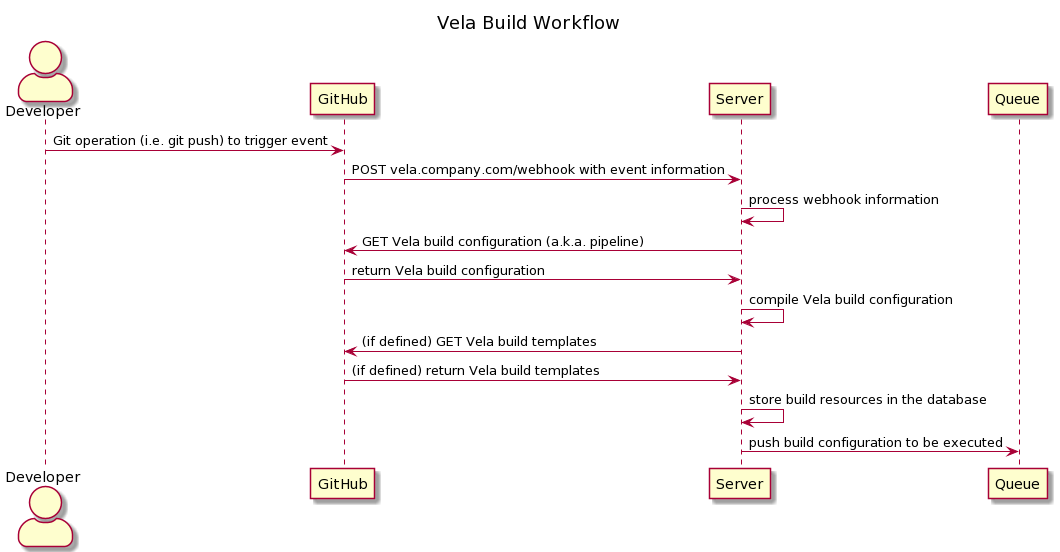
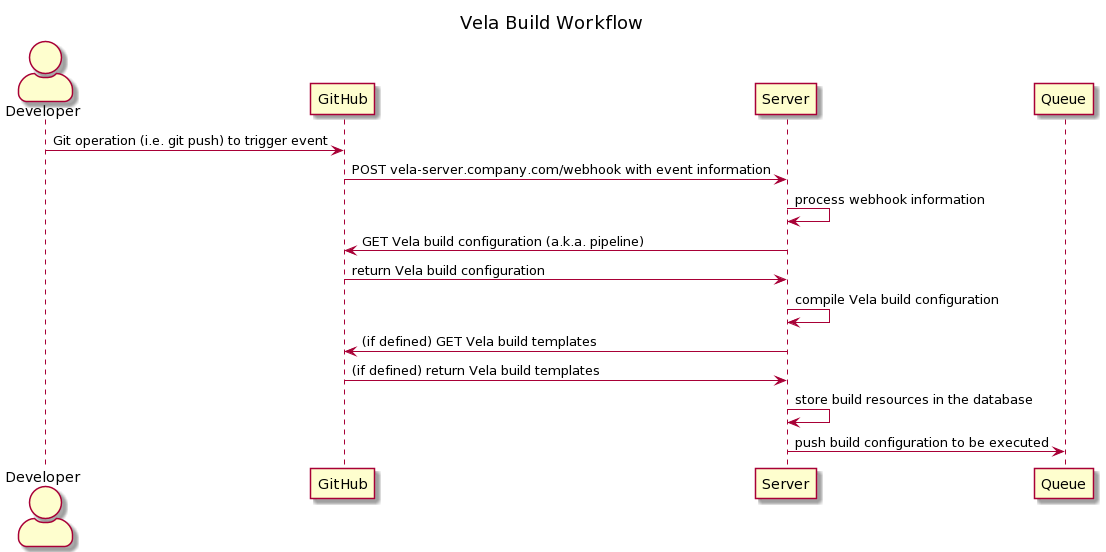
chore: address url feedback

diff --git a/content/administration/server/reference/scm.md b/content/administration/server/reference/scm.md
@@ -23,7 +23,7 @@ The following options are used to configure the component:
 | `scm.driver`       | type of client to control and operate SCM                       | `true`   | `github`                                                 | `SCM_DRIVER`<br>`VELA_SCM_DRIVER`             |
 | `scm.scopes`       | permission scopes to apply for the OAuth credentials on the SCM | `true`   | `[ repo, repo:status, user:email, read:user, read:org ]` | `SCM_SCOPES`<br>`VELA_SCM_SCOPES`             |
 | `scm.secret`       | client secret from the generated OAuth application on the SCM   | `true`   | `N/A`                                                    | `SCM_SECRET`<br>`VELA_SCM_SECRET`             |
-| `scm.webhook.addr` | url for webhooks on the SCM to send requests to                 | `false`  | the address of the Vela server                           | `SCM_WEBHOOK_ADDR`<br>`VELA_SCM_WEBHOOK_ADDR` |
+| `scm.webhook.addr` | url for webhooks on the SCM to send requests to                 | `false`  | the address of the Vela server (`$VELA_ADDR`)            | `SCM_WEBHOOK_ADDR`<br>`VELA_SCM_WEBHOOK_ADDR` |
 
 {{% alert title="Note:" color="primary" %}}
 For more information on these configuration options, please see the [server reference](/docs/administration/server/reference/).
@@ -48,7 +48,9 @@ The below configuration displays an example of creating a [GitHub OAuth applicat
 ![OAuth Application](/docs/administration/server/github_oauth.png)
 
 {{% alert title="Warning:" color="secondary" %}}
-The `Homepage URL` should match [the `VELA_ADDR` environment variable](/docs/administration/server/reference/#vela_addr) provided to the server.
+The `Homepage URL` should match [the `VELA_ADDR` environment variable](/docs/administration/server/reference/#vela_addr) provided to the server for clusters without a UI.
+
+Otherwise, the `Homepage URL` should match [the `VELA_WEBUI_ADDR` environment variable](/docs/administration/server/reference/#vela_webui_addr) provided to the server.
 
 The `Authorization callback URL` should contain [the `VELA_ADDR` environment variable](/docs/administration/server/reference/#vela_addr) with a `/authenticate` suffix.
 {{% /alert %}}
@@ -64,7 +66,9 @@ The below configuration displays an example of creating a [GitHub Enterprise Ser
 ![OAuth Application](/docs/administration/server/github_enterprise_oauth.png)
 
 {{% alert title="Warning:" color="secondary" %}}
-The `Homepage URL` should match [the `VELA_ADDR` environment variable](/docs/administration/server/reference/#vela_addr) provided to the server.
+The `Homepage URL` should match [the `VELA_ADDR` environment variable](/docs/administration/server/reference/#vela_addr) provided to the server for clusters without a UI.
+
+Otherwise, the `Homepage URL` should match [the `VELA_WEBUI_ADDR` environment variable](/docs/administration/server/reference/#vela_webui_addr) provided to the server.
 
 The `Authorization callback URL` should contain [the `VELA_ADDR` environment variable](/docs/administration/server/reference/#vela_addr) with a `/authenticate` suffix.
 {{% /alert %}}

diff --git a/content/administration/server/reference/database.md b/content/administration/server/reference/database.md
@@ -54,7 +54,7 @@ The below configuration displays an example of starting the Vela server that wil
 ```diff
 $ docker run \
   --detach=true \
-  --env=VELA_ADDR=https://vela.company.com \
+  --env=VELA_ADDR=https://vela-server.company.com \
 + --env=VELA_DATABASE_DRIVER=postgres \
 + --env=VELA_DATABASE_ADDR=postgres://<username>:<password>@<hostname>:<port>/<database> \
   --env=VELA_DATABASE_ENCRYPTION_KEY=<encryption-key> \
@@ -64,6 +64,7 @@ $ docker run \
   --env=VELA_SECRET=<shared-secret> \
   --env=VELA_SCM_CLIENT=<oauth-client-id> \
   --env=VELA_SCM_SECRET=<oauth-client-secret> \
+  --env=VELA_WEBUI_ADDR=https://vela.company.com \
   --name=server \
   --publish=80:80 \
   --publish=443:443 \
@@ -82,7 +83,7 @@ The below configuration displays an example of starting the Vela server that wil
 ```diff
 $ docker run \
   --detach=true \
-  --env=VELA_ADDR=https://vela.company.com \
+  --env=VELA_ADDR=https://vela-server.company.com \
 + --env=VELA_DATABASE_DRIVER=sqlite3 \
 + --env=VELA_DATABASE_ADDR=vela.sqlite \
   --env=VELA_DATABASE_ENCRYPTION_KEY=<encryption-key> \
@@ -92,6 +93,7 @@ $ docker run \
   --env=VELA_SECRET=<shared-secret> \
   --env=VELA_SCM_CLIENT=<oauth-client-id> \
   --env=VELA_SCM_SECRET=<oauth-client-secret> \
+  --env=VELA_WEBUI_ADDR=https://vela.company.com \
   --name=server \
   --publish=80:80 \
   --publish=443:443 \

diff --git a/content/administration/server/reference/compiler.md b/content/administration/server/reference/compiler.md
@@ -65,7 +65,7 @@ The below configuration displays an example of starting the Vela server that wil
 ```diff
 $ docker run \
   --detach=true \
-  --env=VELA_ADDR=https://vela.company.com \
+  --env=VELA_ADDR=https://vela-server.company.com \
 + --env=VELA_COMPILER_GITHUB=true \
 + --env=VELA_COMPILER_TOKEN=<github-personal-access-token> \
 + --env=VELA_COMPILER_URL=https://github.com \
@@ -76,6 +76,7 @@ $ docker run \
   --env=VELA_SECRET=<shared-secret> \
   --env=VELA_SCM_CLIENT=<oauth-client-id> \
   --env=VELA_SCM_SECRET=<oauth-client-secret> \
+  --env=VELA_WEBUI_ADDR=https://vela.company.com \
   --name=server \
   --publish=80:80 \
   --publish=443:443 \
@@ -100,7 +101,7 @@ The below configuration displays an example of starting the Vela server that wil
 ```diff
 $ docker run \
   --detach=true \
-  --env=VELA_ADDR=https://vela.company.com \
+  --env=VELA_ADDR=https://vela-server.company.com \
 + --env=VELA_COMPILER_GITHUB=true \
 + --env=VELA_COMPILER_TOKEN=<github-personal-access-token> \
 + --env=VELA_COMPILER_URL=https://git.company.com \
@@ -111,6 +112,7 @@ $ docker run \
   --env=VELA_SECRET=<shared-secret> \
   --env=VELA_SCM_CLIENT=<oauth-client-id> \
   --env=VELA_SCM_SECRET=<oauth-client-secret> \
+  --env=VELA_WEBUI_ADDR=https://vela.company.com \
   --name=server \
   --publish=80:80 \
   --publish=443:443 \

diff --git a/content/administration/worker/reference/runtime.md b/content/administration/worker/reference/runtime.md
@@ -48,7 +48,7 @@ $ docker run \
   --env=VELA_QUEUE_DRIVER=redis \
   --env=VELA_QUEUE_ADDR=redis://<password>@<hostname>:<port>/<database> \
 + --env=VELA_RUNTIME_DRIVER=docker \
-  --env=VELA_SERVER_ADDR=https://vela.company.com \
+  --env=VELA_SERVER_ADDR=https://vela-server.company.com \
   --env=VELA_SERVER_SECRET=<shared-secret> \
   --env=VELA_WORKER_ADDR=https://vela-worker.company.com \
   --name=worker \
@@ -79,7 +79,7 @@ $ docker run \
 + --env=VELA_RUNTIME_DRIVER=kubernetes \
 + --env=VELA_RUNTIME_CONFIG=/root/.kube/config \
 + --env=VELA_RUNTIME_NAMESPACE=vela \
-  --env=VELA_SERVER_ADDR=https://vela.company.com \
+  --env=VELA_SERVER_ADDR=https://vela-server.company.com \
   --env=VELA_SERVER_SECRET=<shared-secret> \
   --env=VELA_WORKER_ADDR=https://vela-worker.company.com \
   --name=worker \

diff --git a/content/administration/server/reference/secret.md b/content/administration/server/reference/secret.md
@@ -53,7 +53,7 @@ The below configuration displays an example of starting the Vela server that wil
 ```diff
 $ docker run \
   --detach=true \
-  --env=VELA_ADDR=https://vela.company.com \
+  --env=VELA_ADDR=https://vela-server.company.com \
   --env=VELA_DATABASE_ENCRYPTION_KEY=<encryption-key> \
   --env=VELA_QUEUE_DRIVER=redis \
   --env=VELA_QUEUE_ADDR=redis://<password>@<hostname>:<port>/<database> \
@@ -64,6 +64,7 @@ $ docker run \
 + --env=VELA_SECRET_VAULT_TOKEN=<vault-token>
   --env=VELA_SCM_CLIENT=<oauth-client-id> \
   --env=VELA_SCM_SECRET=<oauth-client-secret> \
+  --env=VELA_WEBUI_ADDR=https://vela.company.com \
   --name=server \
   --publish=80:80 \
   --publish=443:443 \

diff --git a/content/administration/server/docker/_index.md b/content/administration/server/docker/_index.md
@@ -91,7 +91,7 @@ You can use the [`docker run` command](https://docs.docker.com/engine/reference/
 ```shell
 $ docker run \
   --detach=true \
-  --env=VELA_ADDR=https://vela.company.com \
+  --env=VELA_ADDR=https://vela-server.company.com \
   --env=VELA_DATABASE_ENCRYPTION_KEY=<encryption-key> \
   --env=VELA_QUEUE_DRIVER=redis \
   --env=VELA_QUEUE_ADDR=redis://<password>@<hostname>:<port>/<database> \
@@ -99,6 +99,7 @@ $ docker run \
   --env=VELA_SECRET=<shared-secret> \
   --env=VELA_SCM_CLIENT=<oauth-client-id> \
   --env=VELA_SCM_SECRET=<oauth-client-secret> \
+  --env=VELA_WEBUI_ADDR=https://vela.company.com \
   --name=server \
   --publish=80:80 \
   --publish=443:443 \

diff --git a/content/administration/server/reference/queue.md b/content/administration/server/reference/queue.md
@@ -46,7 +46,7 @@ The below configuration displays an example of starting the Vela server that wil
 ```diff
 $ docker run \
   --detach=true \
-  --env=VELA_ADDR=https://vela.company.com \
+  --env=VELA_ADDR=https://vela-server.company.com \
   --env=VELA_DATABASE_ENCRYPTION_KEY=<encryption-key> \
 + --env=VELA_QUEUE_DRIVER=redis \
 + --env=VELA_QUEUE_ADDR=redis://<password>@<hostname>:<port>/<database> \
@@ -54,6 +54,7 @@ $ docker run \
   --env=VELA_SECRET=<shared-secret> \
   --env=VELA_SCM_CLIENT=<oauth-client-id> \
   --env=VELA_SCM_SECRET=<oauth-client-secret> \
+  --env=VELA_WEBUI_ADDR=https://vela.company.com \
   --name=server \
   --publish=80:80 \
   --publish=443:443 \

diff --git a/content/administration/worker/reference/executor.md b/content/administration/worker/reference/executor.md
@@ -45,7 +45,7 @@ $ docker run \
 + --env=VELA_EXECUTOR_DRIVER=linux \
   --env=VELA_QUEUE_DRIVER=redis \
   --env=VELA_QUEUE_ADDR=redis://<password>@<hostname>:<port>/<database> \
-  --env=VELA_SERVER_ADDR=https://vela.company.com \
+  --env=VELA_SERVER_ADDR=https://vela-server.company.com \
   --env=VELA_SERVER_SECRET=<shared-secret> \
   --env=VELA_WORKER_ADDR=https://vela-worker.company.com \
   --name=worker \

diff --git a/content/administration/worker/docker/_index.md b/content/administration/worker/docker/_index.md
@@ -55,7 +55,7 @@ $ docker run \
   --detach=true \
   --env=VELA_QUEUE_DRIVER=redis \
   --env=VELA_QUEUE_ADDR=redis://<password>@<hostname>:<port>/<database> \
-  --env=VELA_SERVER_ADDR=https://vela.company.com \
+  --env=VELA_SERVER_ADDR=https://vela-server.company.com \
   --env=VELA_SERVER_SECRET=<shared-secret> \
   --env=VELA_WORKER_ADDR=https://vela-worker.company.com \
   --name=worker \

diff --git a/content/administration/worker/reference/queue.md b/content/administration/worker/reference/queue.md
@@ -48,7 +48,7 @@ $ docker run \
   --detach=true \
 + --env=VELA_QUEUE_DRIVER=redis \
 + --env=VELA_QUEUE_ADDR=redis://<password>@<hostname>:<port>/<database> \
-  --env=VELA_SERVER_ADDR=https://vela.company.com \
+  --env=VELA_SERVER_ADDR=https://vela-server.company.com \
   --env=VELA_SERVER_SECRET=<shared-secret> \
   --env=VELA_WORKER_ADDR=https://vela-worker.company.com \
   --name=worker \

diff --git a/content/administration/ui/docker/_index.md b/content/administration/ui/docker/_index.md
@@ -47,7 +47,7 @@ You can use the [`docker run` command](https://docs.docker.com/engine/reference/
 ```shell
 $ docker run \
   --detach=true \
-  --env=VELA_API=https://vela.company.com \
+  --env=VELA_API=https://vela-server.company.com \
   --name=ui \
   --publish=80:80 \
   --publish=443:443 \
